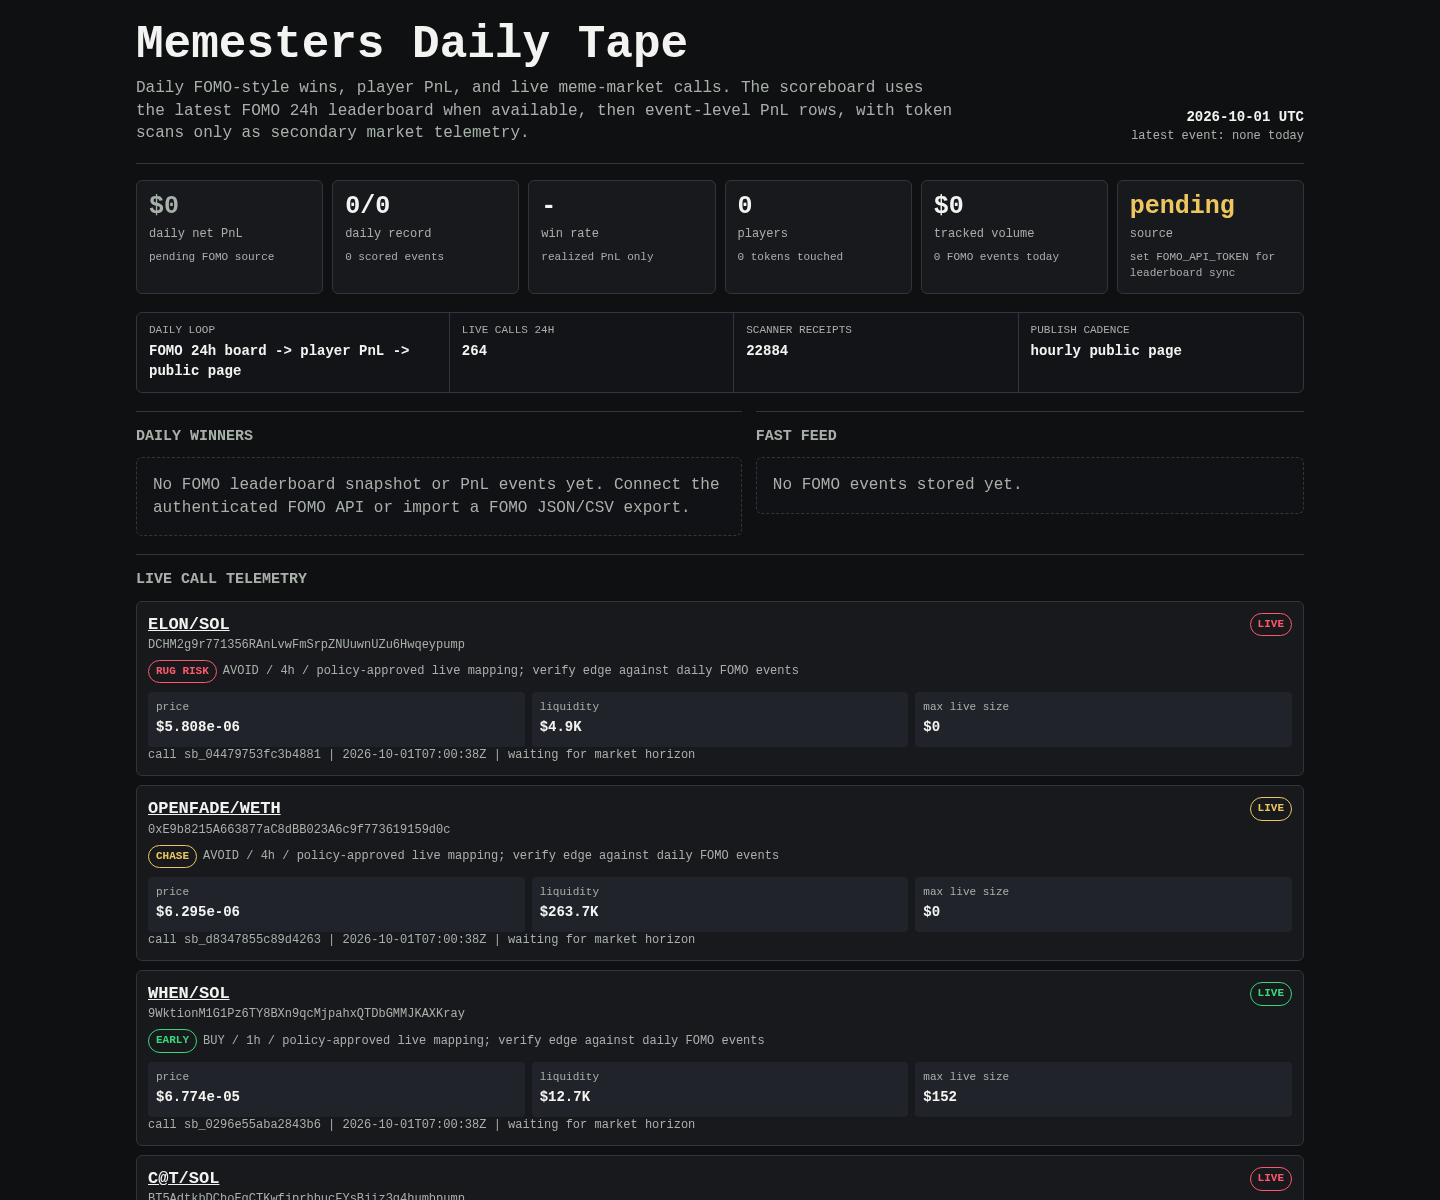
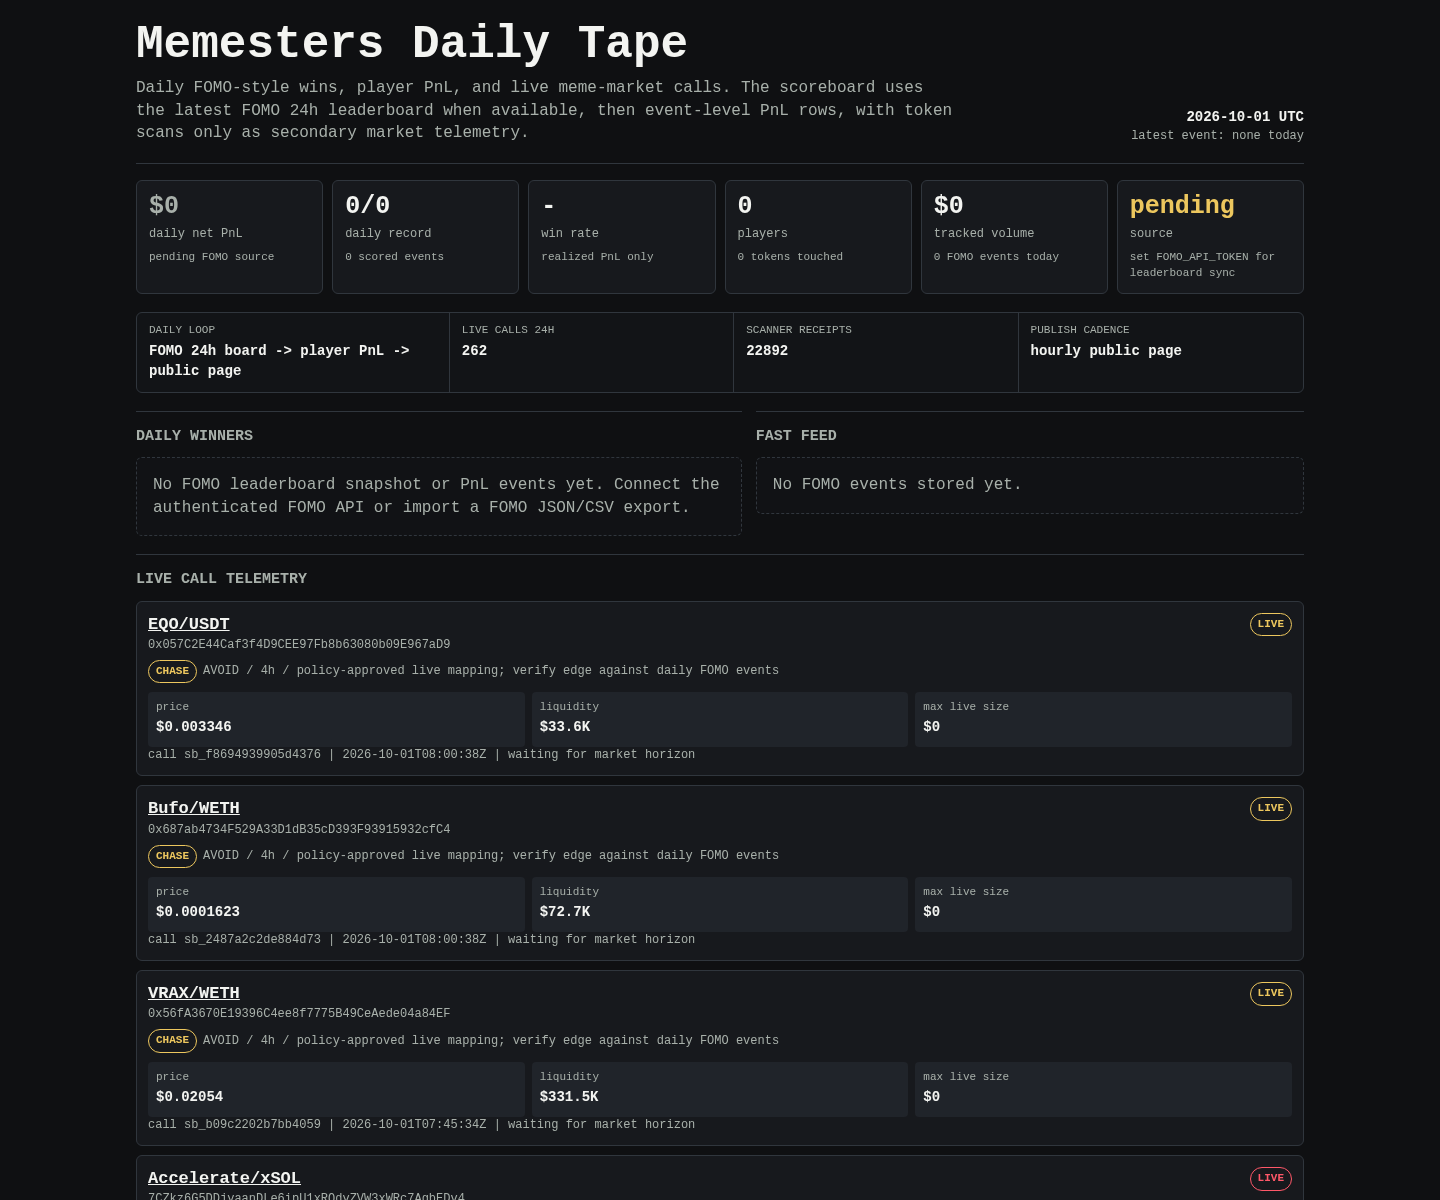
Update Memesters scoreboard

diff --git a/memesters/index.html b/memesters/index.html
@@ -149,8 +149,8 @@
 
     <div class="rail" aria-label="live operating loop">
       <div><span>daily loop</span><b>FOMO 24h board -> player PnL -> public page</b></div>
-      <div><span>live calls 24h</span><b>264</b></div>
-      <div><span>scanner receipts</span><b>22884</b></div>
+      <div><span>live calls 24h</span><b>262</b></div>
+      <div><span>scanner receipts</span><b>22892</b></div>
       <div><span>publish cadence</span><b>hourly public page</b></div>
     </div>
 
@@ -171,6 +171,174 @@
     <article class="receipt">
       <div class="receipt-head">
         <div>
+          <div class="pair"><a href="https://dexscreener.com/bsc/0x17884a1a29ac3330e37875e59cb1ab9660db5f86">EQO/USDT</a></div>
+          <div class="addr">0x057C2E44Caf3f4D9CEE97Fb8b63080b09E967aD9</div>
+          <div class="addr policy-line">
+            <span class="badge chase">CHASE</span>
+            <span>AVOID / 4h / policy-approved live mapping; verify edge against daily FOMO events</span>
+          </div>
+        </div>
+        <span class="badge chase">LIVE</span>
+      </div>
+      <div class="receipt-grid">
+        <div class="kv"><span>price</span><b>$0.003346</b></div>
+        <div class="kv"><span>liquidity</span><b>$33.6K</b></div>
+        <div class="kv"><span>max live size</span><b>$0</b></div>
+      </div>
+      <div class="outcomes">call sb_f8694939905d4376 | 2026-10-01T08:00:38Z | waiting for market horizon</div>
+    </article>
+    
+
+    <article class="receipt">
+      <div class="receipt-head">
+        <div>
+          <div class="pair"><a href="https://dexscreener.com/robinhood/0xd03e3ce3da9689aafa896af146069200c2bd62f7">Bufo/WETH</a></div>
+          <div class="addr">0x687ab4734F529A33D1dB35cD393F93915932cfC4</div>
+          <div class="addr policy-line">
+            <span class="badge chase">CHASE</span>
+            <span>AVOID / 4h / policy-approved live mapping; verify edge against daily FOMO events</span>
+          </div>
+        </div>
+        <span class="badge chase">LIVE</span>
+      </div>
+      <div class="receipt-grid">
+        <div class="kv"><span>price</span><b>$0.0001623</b></div>
+        <div class="kv"><span>liquidity</span><b>$72.7K</b></div>
+        <div class="kv"><span>max live size</span><b>$0</b></div>
+      </div>
+      <div class="outcomes">call sb_2487a2c2de884d73 | 2026-10-01T08:00:38Z | waiting for market horizon</div>
+    </article>
+    
+
+    <article class="receipt">
+      <div class="receipt-head">
+        <div>
+          <div class="pair"><a href="https://dexscreener.com/robinhood/0x97bf35f2603357d0be4dcd081ceccdbc9f9c2cc5">VRAX/WETH</a></div>
+          <div class="addr">0x56fA3670E19396C4ee8f7775B49CeAede04a84EF</div>
+          <div class="addr policy-line">
+            <span class="badge chase">CHASE</span>
+            <span>AVOID / 4h / policy-approved live mapping; verify edge against daily FOMO events</span>
+          </div>
+        </div>
+        <span class="badge chase">LIVE</span>
+      </div>
+      <div class="receipt-grid">
+        <div class="kv"><span>price</span><b>$0.02054</b></div>
+        <div class="kv"><span>liquidity</span><b>$331.5K</b></div>
+        <div class="kv"><span>max live size</span><b>$0</b></div>
+      </div>
+      <div class="outcomes">call sb_b09c2202b7bb4059 | 2026-10-01T07:45:34Z | waiting for market horizon</div>
+    </article>
+    
+
+    <article class="receipt">
+      <div class="receipt-head">
+        <div>
+          <div class="pair"><a href="https://dexscreener.com/solana/8ej78lsnmdwaemjrpjsv2ng75hngdskrznbf5qxnlryw">Accelerate/xSOL</a></div>
+          <div class="addr">7CZkz6G5DDjyaanDLe6ipU1xRQdyZVW3xWRc7AgbEDv4</div>
+          <div class="addr policy-line">
+            <span class="badge rug-risk">RUG RISK</span>
+            <span>AVOID / 4h / policy-approved live mapping; verify edge against daily FOMO events</span>
+          </div>
+        </div>
+        <span class="badge rug-risk">LIVE</span>
+      </div>
+      <div class="receipt-grid">
+        <div class="kv"><span>price</span><b>$4.557e-06</b></div>
+        <div class="kv"><span>liquidity</span><b>$6.2K</b></div>
+        <div class="kv"><span>max live size</span><b>$0</b></div>
+      </div>
+      <div class="outcomes">call sb_e025b5e858bc4093 | 2026-10-01T07:45:34Z | waiting for market horizon</div>
+    </article>
+    
+
+    <article class="receipt">
+      <div class="receipt-head">
+        <div>
+          <div class="pair"><a href="https://dexscreener.com/solana/68wsv1nzupskb3ajrb1niavystkryg1rbhro2q8trfyy">Penguin/SOL</a></div>
+          <div class="addr">Ckbi3ZcnctfTGGPk1oLWmRYp6mKcuWxJ274PTf2hpump</div>
+          <div class="addr policy-line">
+            <span class="badge early">EARLY</span>
+            <span>BUY / 1h / policy-approved live mapping; verify edge against daily FOMO events</span>
+          </div>
+        </div>
+        <span class="badge early">LIVE</span>
+      </div>
+      <div class="receipt-grid">
+        <div class="kv"><span>price</span><b>$4.837e-05</b></div>
+        <div class="kv"><span>liquidity</span><b>$17.9K</b></div>
+        <div class="kv"><span>max live size</span><b>$215</b></div>
+      </div>
+      <div class="outcomes">call sb_d4960c0843dd4f2e | 2026-10-01T07:45:34Z | waiting for market horizon</div>
+    </article>
+    
+
+    <article class="receipt">
+      <div class="receipt-head">
+        <div>
+          <div class="pair"><a href="https://dexscreener.com/solana/8rfm1pxafqzizhh142wydatpqajttu2a8xfgdaav7y8p">PERKOS/SOL</a></div>
+          <div class="addr">GvZ9UXZm8U14uZNi7hBN5cY2iUta7stArZE486yHe2nA</div>
+          <div class="addr policy-line">
+            <span class="badge early">EARLY</span>
+            <span>BUY / 1h / policy-approved live mapping; verify edge against daily FOMO events</span>
+          </div>
+        </div>
+        <span class="badge early">LIVE</span>
+      </div>
+      <div class="receipt-grid">
+        <div class="kv"><span>price</span><b>$2.558e-05</b></div>
+        <div class="kv"><span>liquidity</span><b>$12.5K</b></div>
+        <div class="kv"><span>max live size</span><b>$122</b></div>
+      </div>
+      <div class="outcomes">call sb_ee69f9699e234dea | 2026-10-01T07:45:34Z | waiting for market horizon</div>
+    </article>
+    
+
+    <article class="receipt">
+      <div class="receipt-head">
+        <div>
+          <div class="pair"><a href="https://dexscreener.com/bsc/0x3bf5297fae02c751130bccd6f6efc3033807dd14">SI/BTCB</a></div>
+          <div class="addr">0x27B61DD06F6bB5521c5445651d310726575a7777</div>
+          <div class="addr policy-line">
+            <span class="badge chase">CHASE</span>
+            <span>AVOID / 4h / policy-approved live mapping; verify edge against daily FOMO events</span>
+          </div>
+        </div>
+        <span class="badge chase">LIVE</span>
+      </div>
+      <div class="receipt-grid">
+        <div class="kv"><span>price</span><b>$2.173e-05</b></div>
+        <div class="kv"><span>liquidity</span><b>$22.0K</b></div>
+        <div class="kv"><span>max live size</span><b>$0</b></div>
+      </div>
+      <div class="outcomes">call sb_9f67575a8eb64f7d | 2026-10-01T07:45:34Z | waiting for market horizon</div>
+    </article>
+    
+
+    <article class="receipt">
+      <div class="receipt-head">
+        <div>
+          <div class="pair"><a href="https://dexscreener.com/solana/hxsxr8onff1rwndumhzrnris8wihyyvpwrsmypub8nxm">SuperButch/SOL</a></div>
+          <div class="addr">AG72kGPZ3RBPaNGStCfW1JzKptAvKcVvW2mHMJp7pump</div>
+          <div class="addr policy-line">
+            <span class="badge chase">CHASE</span>
+            <span>AVOID / 4h / policy-approved live mapping; verify edge against daily FOMO events</span>
+          </div>
+        </div>
+        <span class="badge chase">LIVE</span>
+      </div>
+      <div class="receipt-grid">
+        <div class="kv"><span>price</span><b>$0.0001627</b></div>
+        <div class="kv"><span>liquidity</span><b>$36.2K</b></div>
+        <div class="kv"><span>max live size</span><b>$0</b></div>
+      </div>
+      <div class="outcomes">call sb_c93ef4f16b0748c8 | 2026-10-01T07:45:34Z | waiting for market horizon</div>
+    </article>
+    
+
+    <article class="receipt">
+      <div class="receipt-head">
+        <div>
           <div class="pair"><a href="https://dexscreener.com/solana/bxeps7flrv33dgdriascj4hwwejnpgmuctqzhrxtrbcv">ELON/SOL</a></div>
           <div class="addr">DCHM2g9r771356RAnLvwFmSrpZNUuwnUZu6Hwqeypump</div>
           <div class="addr policy-line">
@@ -185,7 +353,7 @@
         <div class="kv"><span>liquidity</span><b>$4.9K</b></div>
         <div class="kv"><span>max live size</span><b>$0</b></div>
       </div>
-      <div class="outcomes">call sb_04479753fc3b4881 | 2026-10-01T07:00:38Z | waiting for market horizon</div>
+      <div class="outcomes">call sb_04479753fc3b4881 | 2026-10-01T07:00:38Z | <span class="positive">15m -4.9% / +$5 if followed</span></div>
     </article>
     
 
@@ -206,175 +374,7 @@
         <div class="kv"><span>liquidity</span><b>$263.7K</b></div>
         <div class="kv"><span>max live size</span><b>$0</b></div>
       </div>
-      <div class="outcomes">call sb_d8347855c89d4263 | 2026-10-01T07:00:38Z | waiting for market horizon</div>
-    </article>
-    
-
-    <article class="receipt">
-      <div class="receipt-head">
-        <div>
-          <div class="pair"><a href="https://dexscreener.com/solana/8pnux3idxebyxytjzn8nkor4fyveaymwct911wisn4i3">WHEN/SOL</a></div>
-          <div class="addr">9WktionM1G1Pz6TY8BXn9qcMjpahxQTDbGMMJKAXKray</div>
-          <div class="addr policy-line">
-            <span class="badge early">EARLY</span>
-            <span>BUY / 1h / policy-approved live mapping; verify edge against daily FOMO events</span>
-          </div>
-        </div>
-        <span class="badge early">LIVE</span>
-      </div>
-      <div class="receipt-grid">
-        <div class="kv"><span>price</span><b>$6.774e-05</b></div>
-        <div class="kv"><span>liquidity</span><b>$12.7K</b></div>
-        <div class="kv"><span>max live size</span><b>$152</b></div>
-      </div>
-      <div class="outcomes">call sb_0296e55aba2843b6 | 2026-10-01T07:00:38Z | waiting for market horizon</div>
-    </article>
-    
-
-    <article class="receipt">
-      <div class="receipt-head">
-        <div>
-          <div class="pair"><a href="https://dexscreener.com/solana/etcms2m53xsyb5dhxwkvu7rcjud5htwaqjnbg8r6da1b">C@T/SOL</a></div>
-          <div class="addr">BT5AdtkbDChoEqCTKwfjprbbucFYsBjiz3g4humbpump</div>
-          <div class="addr policy-line">
-            <span class="badge rug-risk">RUG RISK</span>
-            <span>AVOID / 4h / policy-approved live mapping; verify edge against daily FOMO events</span>
-          </div>
-        </div>
-        <span class="badge rug-risk">LIVE</span>
-      </div>
-      <div class="receipt-grid">
-        <div class="kv"><span>price</span><b>$2.217e-06</b></div>
-        <div class="kv"><span>liquidity</span><b>$2.3K</b></div>
-        <div class="kv"><span>max live size</span><b>$0</b></div>
-      </div>
-      <div class="outcomes">call sb_1f6717e2d9cd43c1 | 2026-10-01T07:00:38Z | waiting for market horizon</div>
-    </article>
-    
-
-    <article class="receipt">
-      <div class="receipt-head">
-        <div>
-          <div class="pair"><a href="https://dexscreener.com/bsc/0x00f5847f8b70481337ee8921cff06a1fe1d9294e">雪王币/wTCENTx</a></div>
-          <div class="addr">0x3ccB70bA4E3b28019C566C541a48AE82103b7777</div>
-          <div class="addr policy-line">
-            <span class="badge chase">CHASE</span>
-            <span>AVOID / 4h / policy-approved live mapping; verify edge against daily FOMO events</span>
-          </div>
-        </div>
-        <span class="badge chase">LIVE</span>
-      </div>
-      <div class="receipt-grid">
-        <div class="kv"><span>price</span><b>$0.0005995</b></div>
-        <div class="kv"><span>liquidity</span><b>$75.0K</b></div>
-        <div class="kv"><span>max live size</span><b>$0</b></div>
-      </div>
-      <div class="outcomes">call sb_517d0b5021df46ba | 2026-10-01T07:00:38Z | waiting for market horizon</div>
-    </article>
-    
-
-    <article class="receipt">
-      <div class="receipt-head">
-        <div>
-          <div class="pair"><a href="https://dexscreener.com/solana/5rbeveihc7dr8gtha3p724myqhmuqqinyjmy3nlfc56c">CATHOLIC/SOL</a></div>
-          <div class="addr">zsBiT9Lr1dkUaQNjmGqXeotfdg2koNxe95jxJ3ipump</div>
-          <div class="addr policy-line">
-            <span class="badge rug-risk">RUG RISK</span>
-            <span>AVOID / 4h / policy-approved live mapping; verify edge against daily FOMO events</span>
-          </div>
-        </div>
-        <span class="badge rug-risk">LIVE</span>
-      </div>
-      <div class="receipt-grid">
-        <div class="kv"><span>price</span><b>$7.085e-06</b></div>
-        <div class="kv"><span>liquidity</span><b>$5.6K</b></div>
-        <div class="kv"><span>max live size</span><b>$0</b></div>
-      </div>
-      <div class="outcomes">call sb_e38dd704070048fe | 2026-10-01T07:00:37Z | waiting for market horizon</div>
-    </article>
-    
-
-    <article class="receipt">
-      <div class="receipt-head">
-        <div>
-          <div class="pair"><a href="https://dexscreener.com/solana/hc4frvv5wv29ufmcnagte5juldfuupakr1fj3tvsvpys">dogg/SOL</a></div>
-          <div class="addr">DJKQH76THGkCQGANL9DfSya35cgP3NdUmxu1T4UHpump</div>
-          <div class="addr policy-line">
-            <span class="badge rug-risk">RUG RISK</span>
-            <span>AVOID / 4h / policy-approved live mapping; verify edge against daily FOMO events</span>
-          </div>
-        </div>
-        <span class="badge rug-risk">LIVE</span>
-      </div>
-      <div class="receipt-grid">
-        <div class="kv"><span>price</span><b>$6.024e-06</b></div>
-        <div class="kv"><span>liquidity</span><b>$5.0K</b></div>
-        <div class="kv"><span>max live size</span><b>$0</b></div>
-      </div>
-      <div class="outcomes">call sb_6e2845581c6146f5 | 2026-10-01T07:00:37Z | waiting for market horizon</div>
-    </article>
-    
-
-    <article class="receipt">
-      <div class="receipt-head">
-        <div>
-          <div class="pair"><a href="https://dexscreener.com/robinhood/0x2635b7a6e094feeee2a40535546f5759e0d7d4a34f60df251e01b8e3c5ec671b">DOTTIE/ETH</a></div>
-          <div class="addr">0x5B3c2cD87083Ea5C4436525dca6213740405B69E</div>
-          <div class="addr policy-line">
-            <span class="badge chase">CHASE</span>
-            <span>AVOID / 4h / policy-approved live mapping; verify edge against daily FOMO events</span>
-          </div>
-        </div>
-        <span class="badge chase">LIVE</span>
-      </div>
-      <div class="receipt-grid">
-        <div class="kv"><span>price</span><b>$0.0001085</b></div>
-        <div class="kv"><span>liquidity</span><b>$41.9K</b></div>
-        <div class="kv"><span>max live size</span><b>$0</b></div>
-      </div>
-      <div class="outcomes">call sb_fc988a2a46514666 | 2026-10-01T07:00:37Z | waiting for market horizon</div>
-    </article>
-    
-
-    <article class="receipt">
-      <div class="receipt-head">
-        <div>
-          <div class="pair"><a href="https://dexscreener.com/robinhood/0xbba6a1eaa8bb78a96d5a738201ee9ac4fadfde4447835c0bd6a6703f0316e267">MSI/USDG</a></div>
-          <div class="addr">0xB43816eb19eBA0B88c0E6b49Bc78dCA981d0FE11</div>
-          <div class="addr policy-line">
-            <span class="badge early">EARLY</span>
-            <span>BUY / 1h / policy-approved live mapping; verify edge against daily FOMO events</span>
-          </div>
-        </div>
-        <span class="badge early">LIVE</span>
-      </div>
-      <div class="receipt-grid">
-        <div class="kv"><span>price</span><b>$1.644e-05</b></div>
-        <div class="kv"><span>liquidity</span><b>$10.4K</b></div>
-        <div class="kv"><span>max live size</span><b>$125</b></div>
-      </div>
-      <div class="outcomes">call sb_1902d473f0a04b6b | 2026-10-01T06:45:33Z | waiting for market horizon</div>
-    </article>
-    
-
-    <article class="receipt">
-      <div class="receipt-head">
-        <div>
-          <div class="pair"><a href="https://dexscreener.com/ethereum/0x0d0f3eea7662b5c91e412119a2d67ef2174a7585b276a28f243e19325043e4d8">MERIDIAN/WETH</a></div>
-          <div class="addr">0xac30876A05AECE34633d9c01454E2A2947D99Fb1</div>
-          <div class="addr policy-line">
-            <span class="badge chase">CHASE</span>
-            <span>AVOID / 4h / policy-approved live mapping; verify edge against daily FOMO events</span>
-          </div>
-        </div>
-        <span class="badge chase">LIVE</span>
-      </div>
-      <div class="receipt-grid">
-        <div class="kv"><span>price</span><b>$3.219e-05</b></div>
-        <div class="kv"><span>liquidity</span><b>$18.7K</b></div>
-        <div class="kv"><span>max live size</span><b>$0</b></div>
-      </div>
-      <div class="outcomes">call sb_1c5c0d7efb4e47c4 | 2026-10-01T06:45:33Z | waiting for market horizon</div>
+      <div class="outcomes">call sb_d8347855c89d4263 | 2026-10-01T07:00:38Z | <span class="negative">15m +55.3% / -$55 if followed</span></div>
     </article>
     
     </section>
